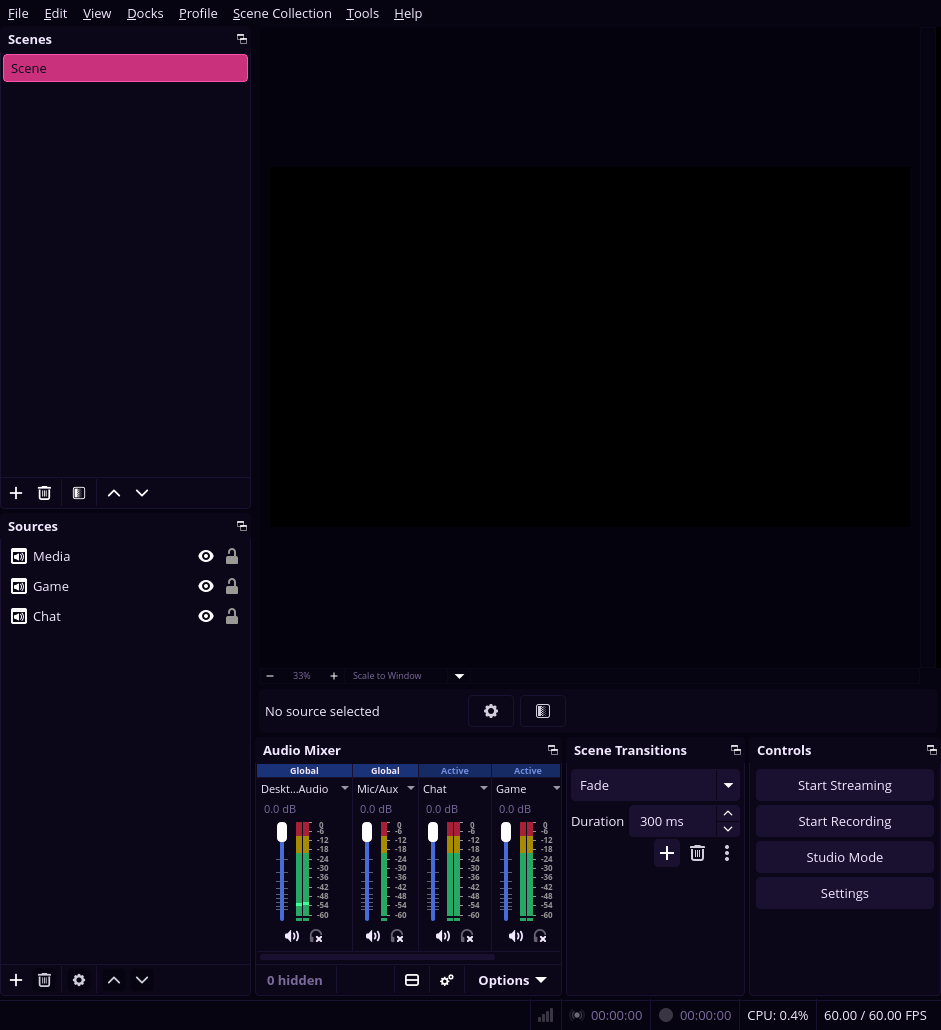
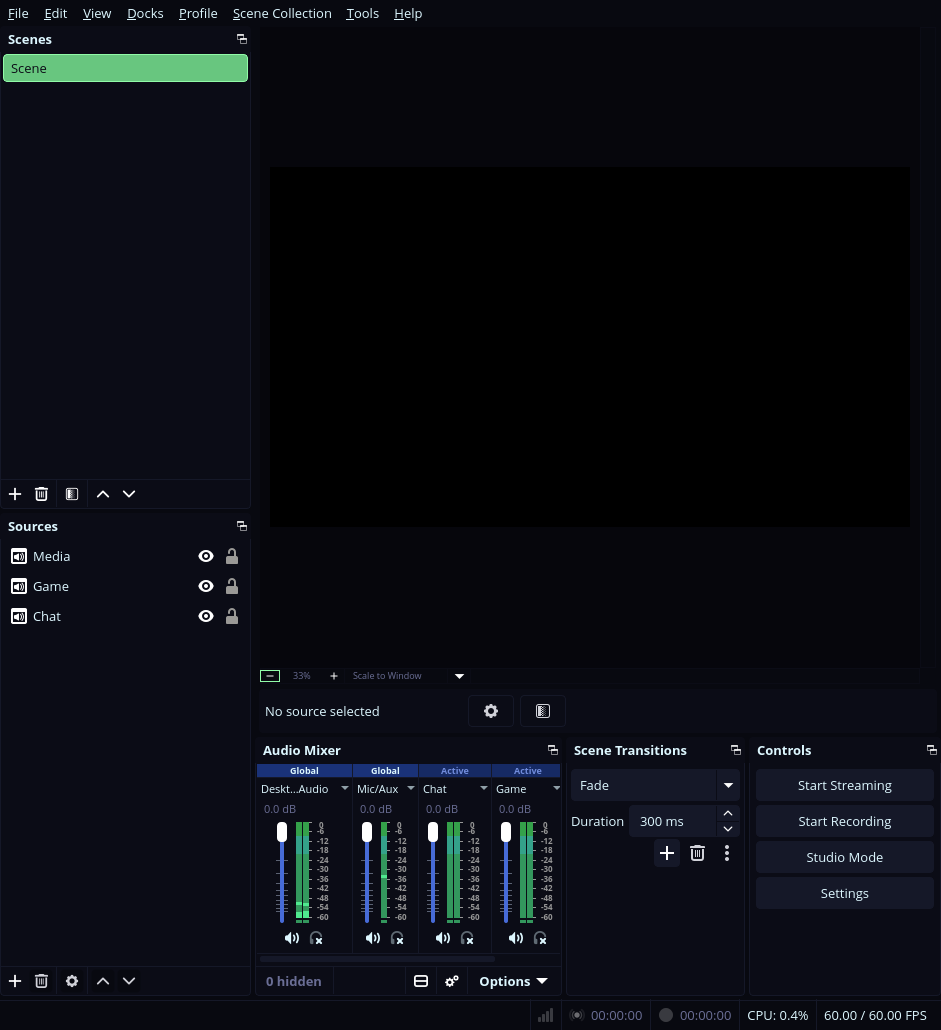
Showcase OBS mockups on official Hackerman, not Asphalt.
Plugin faces stick to stock Omarchy themes; personal themes stay in their
own READMEs.

diff --git a/lib/omaobs.py b/lib/omaobs.py
@@ -703,7 +703,7 @@ SAFE_Y = 48
 
 
 def render_mockup(palette: dict[str, Any], dest: Path, size: tuple[int, int] = MOCKUP_SIZE) -> Path:
-    """OBS Studio chrome from a real Asphalt/OmaOBS window capture.
+    """OBS Studio chrome from a real Hackerman/OmaOBS window capture.
 
     Dock layout matches current OBS (Scenes+Sources left, preview center,
     mixer + transitions + controls along the bottom). Colours from

diff --git a/README.md b/README.md
@@ -3,7 +3,7 @@
 **Omarchy themes your desktop. OmaOBS carries the same palette into OBS Studio —
 mockup previews in the Style menu, then a real Yami variant OBS can load.**
 
-![OmaOBS on Asphalt Legends — live OBS Studio wearing the Omarchy palette](preview.png)
+![OmaOBS on Hackerman — live OBS Studio wearing the Omarchy palette](preview.png)
 
 Stock Omarchy paints Hyprland, the terminal, and your GTK apps. OBS keeps its
 own skin. Your desktop wears Hackerman neon; the encoder wears default grey.
@@ -66,7 +66,7 @@ from every `colors.toml`.
 
 **How it was done**
 
-1. Apply OmaOBS on **Asphalt Legends**, open OBS (Display Capture parked so the
+1. Apply OmaOBS on official **Hackerman**, open OBS (Display Capture parked so the
    preview stays empty and readable).
 2. Capture the window (OMCP + grim) — Scenes/Sources left, black preview,
    Audio Mixer + Scene Transitions + Controls along the bottom.
@@ -75,9 +75,9 @@ from every `colors.toml`.
 
 **Compare — live OmaOBS window vs generated mockup (same theme):**
 
-| Real OBS (Asphalt Legends / OmaOBS) | OmaOBS mockup (Asphalt Legends) |
+| Real OBS (Hackerman / OmaOBS) | OmaOBS mockup (Hackerman) |
 | --- | --- |
-| ![Live OBS on Asphalt Legends — reference](reference-obs-asphalt.png) | ![Generated OmaOBS mockup — same docks, drawn from colors.toml](preview-mockup.png) |
+| ![Live OBS on Hackerman — reference](reference-obs-hackerman.png) | ![Generated OmaOBS mockup — same docks, drawn from colors.toml](preview-mockup.png) |
 
 Hero above is the live capture. Picker tiles are the drawn mockups.
 
@@ -149,8 +149,8 @@ bash ~/.config/omarchy/plugins/io.github.alxwolfenstein97.omaobs/check.sh
 
 ## Credits
 
-- **Layout reference:** [`reference-obs-asphalt.png`](reference-obs-asphalt.png)
-  — live OBS on **Asphalt Legends** via OmaOBS (Display Capture removed for a
+- **Layout reference:** [`reference-obs-hackerman.png`](reference-obs-hackerman.png)
+  — live OBS on official **Hackerman** via OmaOBS (Display Capture removed for a
   clean preview). Captured with [OMCP](https://github.com/btsouth/omarchy-omcp)
   + grim. Compare to [`preview-mockup.png`](preview-mockup.png).
 - Sibling Style plugins: [OmaBoot](https://github.com/AlxWolfenstein97/omaboot),
